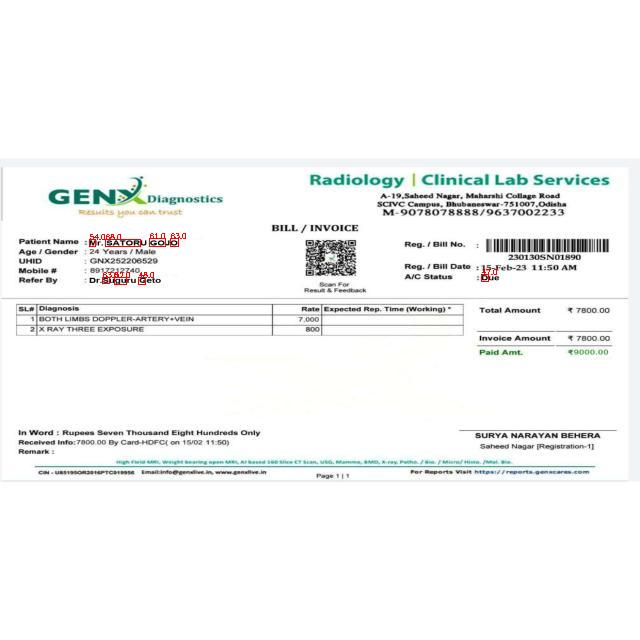
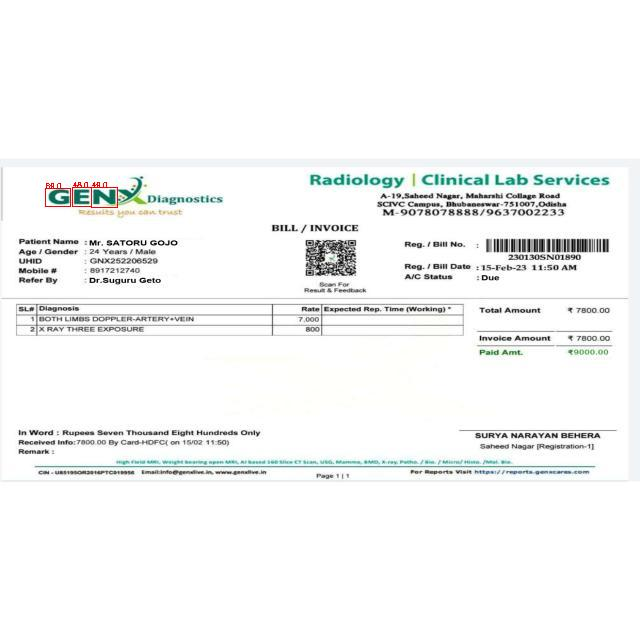
Updated

Changed region(s): [[0.0625, 0.2812, 0.2812, 0.4688], [0.75, 0.4062, 0.7812, 0.4375]]

diff --git a/app.py b/app.py
@@ -33,7 +33,7 @@ def predict():
     # image.save(os.path.join(app.config['UPLOAD'],filename))
     # file=os.path.join(app.config['UPLOAD'],filename)
 
-    def bboxes(result):
+    def bboxes(result, thres):
         boxes = result[0].boxes.cpu().numpy()
         # print(first)
         qu = {}
@@ -42,7 +42,7 @@ def predict():
         conf = []
         visited = [0] * len(boxes)
         for i, box in enumerate(boxes):
-            if(box.conf[0] < 0.47):
+            if(box.conf[0] < thres):
                 continue
             if(visited[i]):
                 continue
@@ -62,7 +62,7 @@ def predict():
                 # print(val)
                 for j, b in enumerate(boxes):
                     # print(j)
-                    if(b.conf[0] < 0.47):
+                    if(b.conf[0] < thres):
                         continue
                     
                     if(index == j):
@@ -102,18 +102,34 @@ def predict():
         # print(coord)
         return coord, conf
 
-    def plot(result, img):
+    def plot(result_DF, result_OW, img, ):
 
-        final_coord, final_conf = bboxes(result)
+        final_DF_coord, final_DF_conf = [], []
+        final_OW_coord, final_OW_conf = [], []
+        if(len(result_DF)):
+            final_DF_coord, final_DF_conf = bboxes(result_DF, 0.47)
+        if(len(result_OW)):
+            final_OW_coord, final_OW_conf = bboxes(result_OW, 0.55)
 
-        for i, box in enumerate(final_coord):
-            r = [v.astype(int) for v in box]
-            # print(r)                                               # print boxes
-            cv2.rectangle(img, r[:2], r[2:], (0, 0, 255), 1)
-            #img = cv2.rectangle(img, (r[0], r[1] - 5), (r[2], r[1]), (0, 0, 255), -1)
-            text = str(round(final_conf[i] * 100, 2))
-            print(text)
-            img = cv2.putText(img, text, (r[0], r[1]), cv2.FONT_HERSHEY_SIMPLEX, 0.23, (0, 0, 255), 1)
+        if(len(final_DF_conf)):
+            for i, box in enumerate(final_DF_coord):
+                r = [v.astype(int) for v in box]
+                # print(r)                                               # print boxes
+                cv2.rectangle(img, r[:2], r[2:], (0, 0, 255), 1)
+                #img = cv2.rectangle(img, (r[0], r[1] - 5), (r[2], r[1]), (0, 0, 255), -1)
+                text = str(round(final_DF_conf[i] * 100, 2))
+                print(text)
+                img = cv2.putText(img, text, (r[0], r[1]), cv2.FONT_HERSHEY_SIMPLEX, 0.23, (0, 0, 255), 1)
+        
+        if(len(final_OW_conf)):
+            for i, box in enumerate(final_OW_coord):
+                r = [v.astype(int) for v in box]
+                # print(r)                                               # print boxes
+                cv2.rectangle(img, r[:2], r[2:], (255, 0, 0), 1)
+                #img = cv2.rectangle(img, (r[0], r[1] - 5), (r[2], r[1]), (0, 0, 255), -1)
+                text = str(round(final_OW_conf[i] * 100, 2))
+                print(text)
+                img = cv2.putText(img, text, (r[0], r[1]), cv2.FONT_HERSHEY_SIMPLEX, 0.23, (255, 0, 0), 1)
 
         return img
 
@@ -134,8 +150,9 @@ def predict():
     # img=n_img
 
     u_img = cv2.imread(os.path.join("static", "uploads", filename))
-    imag=OW.predict(img)
-    imag = plot(imag, u_img)
+    imag_DF = DF.predict(img)
+    imag_OW = OW.predict(img)
+    imag = plot(imag_DF, imag_OW, u_img)
     img_arr=imag
     pred=Image.fromarray(img_arr[...,::-1])
 
